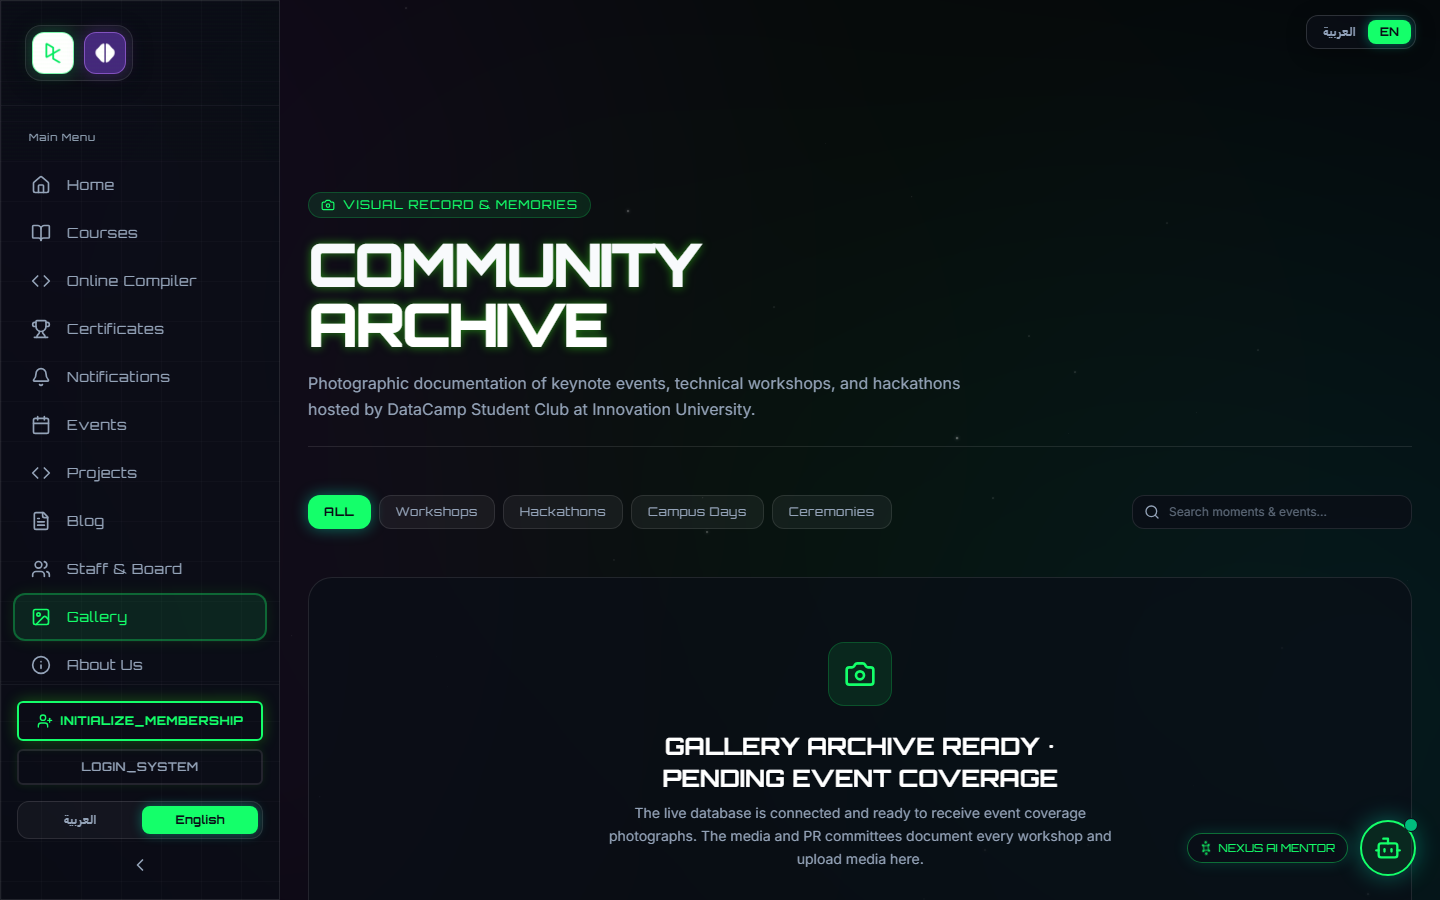
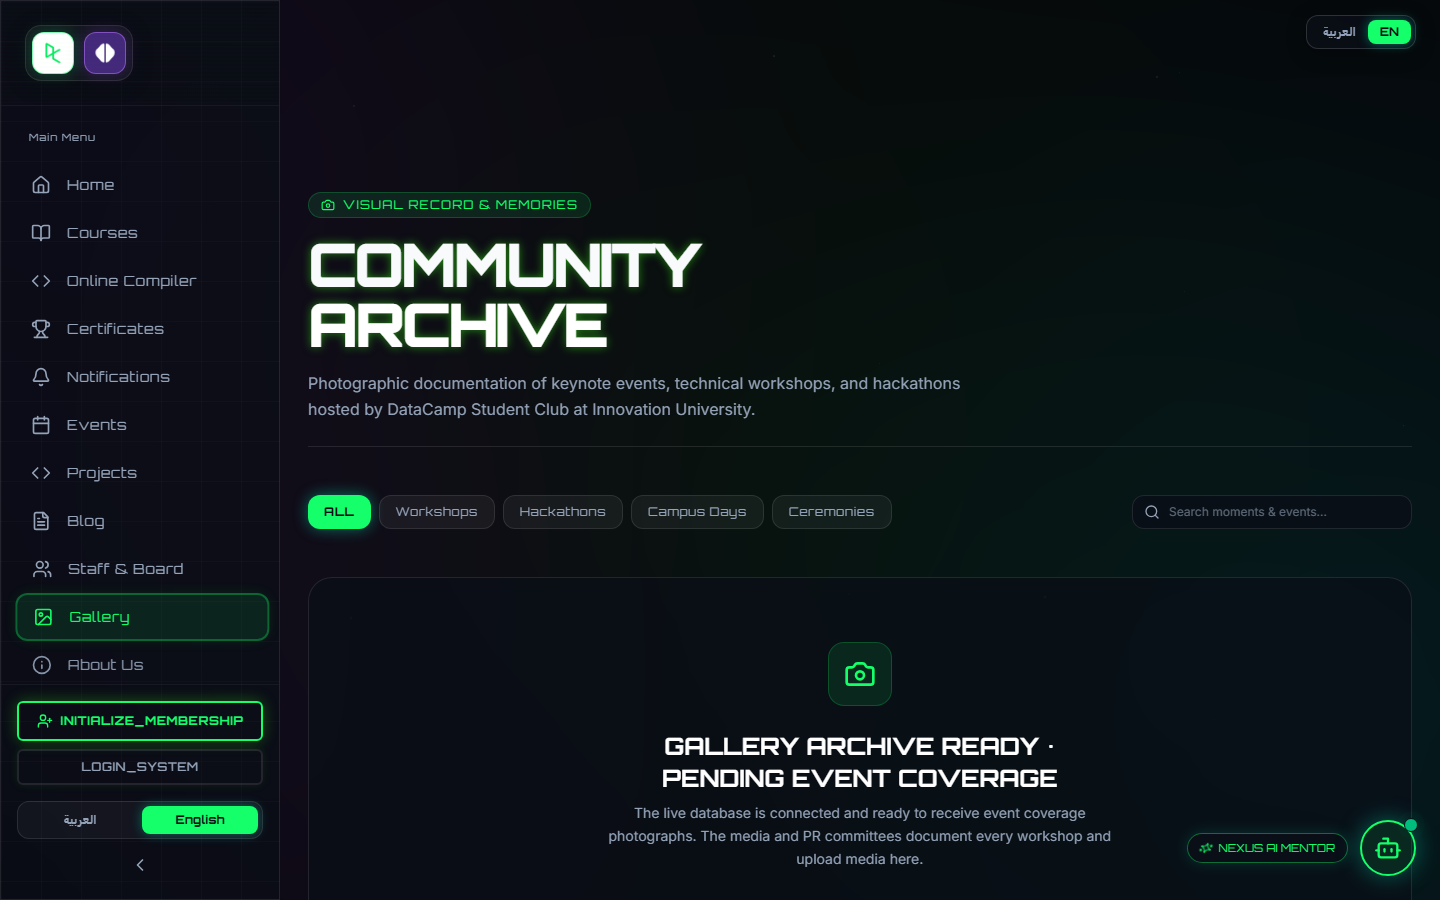
Record final delivery evidence and external setup requirements

diff --git a/qa-audit/FINAL_TAB_REPORT.md b/qa-audit/FINAL_TAB_REPORT.md
@@ -4,7 +4,7 @@
 
 ## نتيجة الإصدار
 
-نجحت آخر نتيجة لكل حالة من **324 حالة متصفح** على 1440 و768 و375، و**56 اختبار PostgreSQL** و**6 اختبارات Node**. فحص الأنواع والبناء النهائي نجحا، وفحص اعتماديات الإنتاج سجّل صفر ثغرات معروفة. النشر والتحقق المباشر يُسجلان في final-release-results.json بعد اكتمالهما.
+نجحت آخر نتيجة لكل حالة من **324 حالة متصفح** على 1440 و768 و375، و**56 اختبار PostgreSQL** و**6 اختبارات Node**. فحص الأنواع والبناء النهائي نجحا، وفحص اعتماديات الإنتاج سجّل صفر ثغرات معروفة. إصدار التطبيق `768e866` رُفع إلى `main` وأكد Vercel اكتمال نشره. نجح بعده 45 فحص مسار و4 فحوص محتوى على الموقع الحقيقي؛ الشهادة وملفاتها وروابط LinkedIn فُحصت في الإصدار المنشور لهذه الجولة. سجل الإصدار في [final-release-results.json](final-release-results.json). تحديث التقرير اللاحق لا يغير كود التطبيق.
 
 المجموعة الكاملة الأولى: 320 نجاحًا وفشل واحد من 321 حالة. كشف الفشل تغطية أعلى QR على التابلت؛ بعد إصلاح نافذة التذكرة نجحت إعادة المسح الثلاثة. أضيفت ثلاث حالات لأزرار المحرر، وأُعيدت حالات Forms بعد تعطيل Sheets افتراضيًا. التجميع يستبدل النتيجة السابقة لنفس الحالة والمقاس؛ لا يجمع إعادة الاختبار كحالات إضافية. ملفات النتائج الخام محفوظة، بما فيها الفشل الذي كشف العيب. لا يوجد ادعاء ضمان «صفر أخطاء» أو اعتماد كل عنصر من عناصر الجرد التاريخي دون اختبار.
 
@@ -71,8 +71,9 @@
 11. الصور العشوائية للأشخاص والمقالات والمشروعات والمعرض استُبدلت ببديل محلي محايد عند غياب الصورة أو فشلها، دون طلب صورة عشوائية أخرى.
 12. أُضيف تصنيف صور المعرض وتوحيد تصنيفات الطاقم. أُزيل حقل Linked User الذي لم يكن يُحفظ؛ تعديل قائمة الطاقم لا يدعي تغيير صلاحيات الحساب.
 13. حذف سجل صورة يحدث قبل تنظيف الملف؛ فشل حذف السجل لا يترك سجلًا حقيقيًا بصورة محذوفة. فشل تنظيف ملف غير مستخدم يُذكر صراحة.
-14. فشل تحميل المحتوى والإشعارات يظهر رسالة حقيقية؛ لا يُعتبر صفحة فارغة ناجحة أو يغير unread محليًا دون حفظ.
+14. فشل تحميل المحتوى والإشعارات يظهر رسالة حقيقية؛ لا تُعرض عبارة قاعدة البيانات جاهزة بجوار فشل التحميل، ولا يتغير unread محليًا دون حفظ.
 15. تحسنت نماذج وأزرار الإدارة على الشاشات الضيقة، وأصبحت إجراءات الصور/الطاقم/الفعاليات مرئية على الهاتف.
+16. نافذة تذكرة الحدث كانت داخل حاوية متحركة، فغطّى الهيدر أعلى QR على التابلت. أصبحت Dialog مستقلة عن الحاوية، مع Escape وفك شفرة ملف التذكرة وحفظ الحضور على المقاسات الثلاثة.
 
 ## صيانة أمثلة التثبيت في الإنتاج
 
@@ -103,6 +104,7 @@ node qa-audit/postgres.spec.mjs
 node --import tsx --test qa-audit/admin-api.test.ts qa-audit/api-auth.test.ts qa-audit/watch-query.test.ts
 node qa-audit/deployed-smoke.cjs https://datacamp-student-club.vercel.app
 node qa-audit/deployed-compiler.cjs https://datacamp-student-club.vercel.app
+node qa-audit/deployed-content.cjs https://datacamp-student-club.vercel.app
 node --env-file=.env qa-audit/final-live-read.cjs
 ```
 

diff --git a/qa-audit/FIX_REPORT.md b/qa-audit/FIX_REPORT.md
@@ -7,7 +7,7 @@ The user authorized repairs after the initial discovery and explicitly authorize
 ## Results and coverage
 
 - Inventory: 49 route patterns, 685 source control declarations. These are not 685 clicked elements.
-- Browser scenarios: 324; results: {"passed":324}. Desktop 1440px, tablet 768px, mobile 375px. Latest outcomes combine fix-results.json with post-final-results.json and qr-final-results.json, replacing retests of the same scenario/viewport. Exact outcomes are in tested-elements.csv.
+- Browser scenarios: 324; results: {"passed":324}. Desktop 1440px, tablet 768px, mobile 375px. Latest outcomes combine fix-results.json with post-final-results.json, qr-final-results.json and error-final-results.json, replacing retests of the same scenario/viewport. Exact outcomes are in tested-elements.csv.
 - PostgreSQL: 56 passed, 0 failed in an isolated in-memory PostgreSQL database. All 13 repair migrations applied and actual SQL rows/rollback/RLS were verified. These tests do not prove authenticated production CRUD.
 - Node server/polling: six tests passed, including five authorization identities, bounded backup over 1105 rows, Auth account rollback and deletion contracts.
 - Live read-only integration: 11 checks passed against the connected Supabase and the local API server. Existing server key reads five profiles; anonymous private-row reads expose zero; sanitized events expose two; three unauthenticated admin endpoints return401.

diff --git a/qa-audit/REPORT.md b/qa-audit/REPORT.md
@@ -7,7 +7,7 @@ The user authorized repairs after the initial discovery and explicitly authorize
 ## Results and coverage
 
 - Inventory: 49 route patterns, 685 source control declarations. These are not 685 clicked elements.
-- Browser scenarios: 324; results: {"passed":324}. Desktop 1440px, tablet 768px, mobile 375px. Latest outcomes combine fix-results.json with post-final-results.json and qr-final-results.json, replacing retests of the same scenario/viewport. Exact outcomes are in tested-elements.csv.
+- Browser scenarios: 324; results: {"passed":324}. Desktop 1440px, tablet 768px, mobile 375px. Latest outcomes combine fix-results.json with post-final-results.json, qr-final-results.json and error-final-results.json, replacing retests of the same scenario/viewport. Exact outcomes are in tested-elements.csv.
 - PostgreSQL: 56 passed, 0 failed in an isolated in-memory PostgreSQL database. All 13 repair migrations applied and actual SQL rows/rollback/RLS were verified. These tests do not prove authenticated production CRUD.
 - Node server/polling: six tests passed, including five authorization identities, bounded backup over 1105 rows, Auth account rollback and deletion contracts.
 - Live read-only integration: 11 checks passed against the connected Supabase and the local API server. Existing server key reads five profiles; anonymous private-row reads expose zero; sanitized events expose two; three unauthenticated admin endpoints return401.
